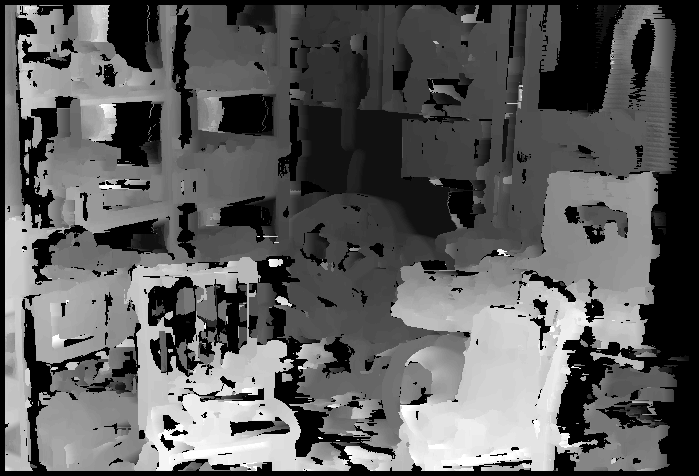
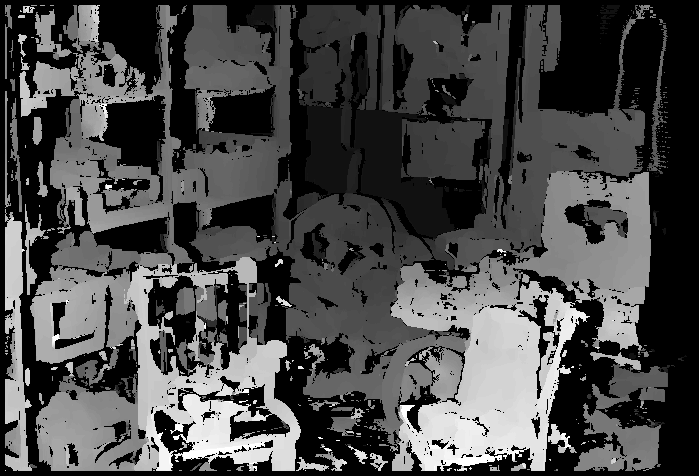
symmetricly strict

diff --git a/Dev3/main.cpp b/Dev3/main.cpp
@@ -14,7 +14,7 @@ int MAX_DISPARITY = 75;
 
 // MC par correlation
 int WINDOW_SIZE = 5;
-int SYMMETRIC_TOLERANCE = 10;
+int SYMMETRIC_TOLERANCE = 1;
 int CONTINUOUS_DISPARITY_TOLERANCE = 20;
 
 cv::Mat getDisparityMap(const cv::Mat &left, const cv::Mat &right)
